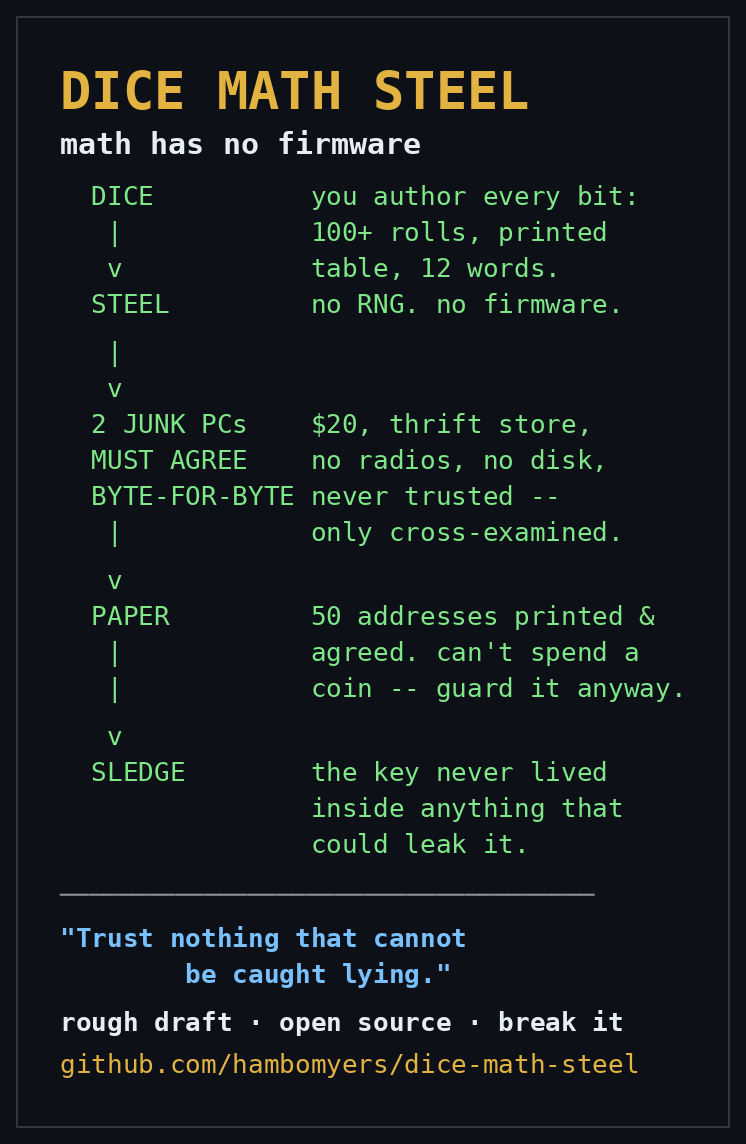
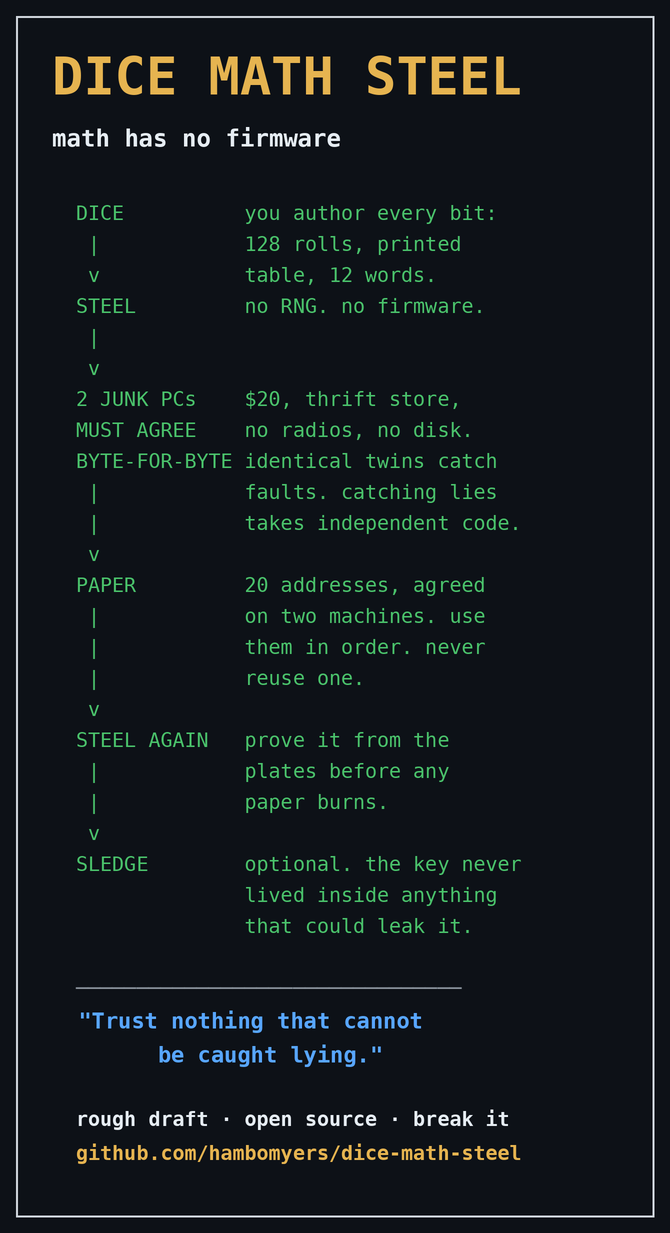
v0.3.3: receive sheet 20 addresses; launch images had stale claims
- 5-10 -> 20, with reuse and gap-limit reasoning stated
- reply card regenerated: said 50 addresses and 100+ rolls, and
  still carried the pre-v0.3 fault-detector overclaim
- poster regenerated claim-free (motto + URL only) so it cannot
  go stale again; its old version also still footed itself v0.2
- img/reply-card.txt, img/poster.txt: image claims are invisible
  to grep

diff --git a/PROTOCOL.md b/PROTOCOL.md
@@ -153,7 +153,7 @@ offline on both ceremony machines from your verified boot media —
 e.g., Electrum in offline mode, or SeedSigner/Krux code — to:
 
 1. Enter the 12 words (+ passphrase, if you chose one) on machine
-   #1; derive the account xpub and the first 5–10 receiving
+   #1; derive the account xpub and the first 20 receiving
    addresses.
 2. Repeat independently on machine #2. **Every address must match.**
    This output is silent — a wrong address looks exactly like a
@@ -165,7 +165,13 @@ e.g., Electrum in offline mode, or SeedSigner/Krux code — to:
    and version used — none of that is secret, and it prevents a
    future path mismatch. This sheet becomes your permanent receive
    list — the root of truth: verified once, then trusted, so no
-   screen sits in your receive path again.
+   screen sits in your receive path again. Use them in order, and
+   never reuse one. Two payments to the same address are linked
+   publicly and permanently — that is the real cost of running out.
+   Twenty also matches the ~20-address gap limit most wallets scan
+   during recovery, so a sheet used in order can never outrun a
+   recovering wallet. When you exhaust the sheet, run a fresh
+   ceremony rather than reusing.
 4. Optional third check: reconstruct watch-only from the xpub on an
    ordinary online machine later; addresses must match again.
 

diff --git a/README.md b/README.md
@@ -93,8 +93,9 @@ DICE  ·  MATH  ·  STEEL
  └────────────────────────────┬─────────────────────────────┘
                               ▼
  ┌──────────────────────────────────────────────────────────┐
- │ 6 PAPER       5–10 receive addresses, hand-copied,       │
- │               verified once → trusted forever. no        │
+ │ 6 PAPER       20 receive addresses, hand-copied,         │
+ │               verified once → trusted forever. use       │
+ │               them in order; never reuse one. no         │
  │               screen in the receive path again.          │
  └────────────────────────────┬─────────────────────────────┘
                               ▼

diff --git a/CHANGELOG.md b/CHANGELOG.md
@@ -1,5 +1,17 @@
 # Changelog
 
+## v0.3.3 — August 2026
+- Receive sheet 5–10 -> 20, with the reason stated: reuse links
+  payments permanently, and 20 matches the wallet gap limit.
+- Both launch images regenerated. The reply card claimed 50
+  addresses and "100+ rolls" where the key is 128, and carried the
+  pre-v0.3 "never trusted, only cross-examined" overclaim; the
+  poster repeated those and still footed itself v0.2. The poster is
+  now claim-free — motto and pointer only — so it cannot go stale
+  again.
+- img/reply-card.txt and img/poster.txt added so claims inside
+  images are greppable.
+
 ## v0.3-draft — August 2026
 Changes from post-launch adversarial review (red-team → adjudication
 → steelman). Critics credited in the README as findings land.
